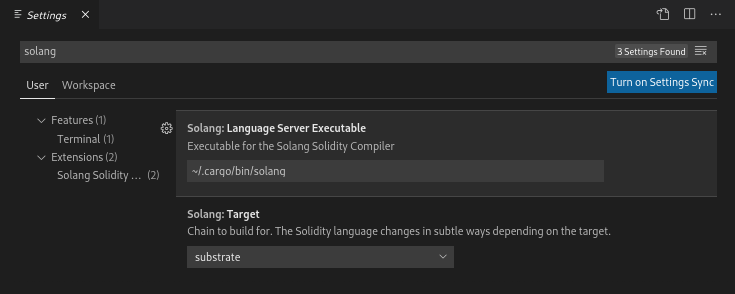
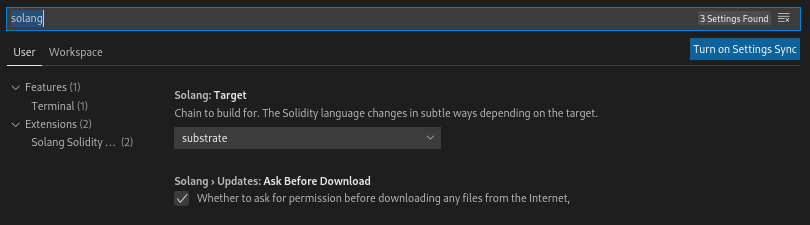
Update extension documentation for automagic downloading

diff --git a/docs/extension.rst b/docs/extension.rst
@@ -24,9 +24,9 @@ Using the extension
 
 The extension can be found on the `Visual Studio Marketplace <https://marketplace.visualstudio.com/items?itemName=solang.solang>`_.
 
-First, install the extension and the Solang compiler binary. The extension needs
-to know where to find the Solang binary to start the language server, and also
-it needs to know what target you wish to compile your solidity code for.
+On first start, the extension will ask to download the Solang binary. Once this is done, it should just automatically work.
+However, you should set the blockchain target in the extension settings. The Solidity language differs in subtle ways depending on which target you are
+building for. Different blockchains offer different builtins, for example. See the :ref:`language documentation <language>`.
 
 .. image:: extension-config.png
 
